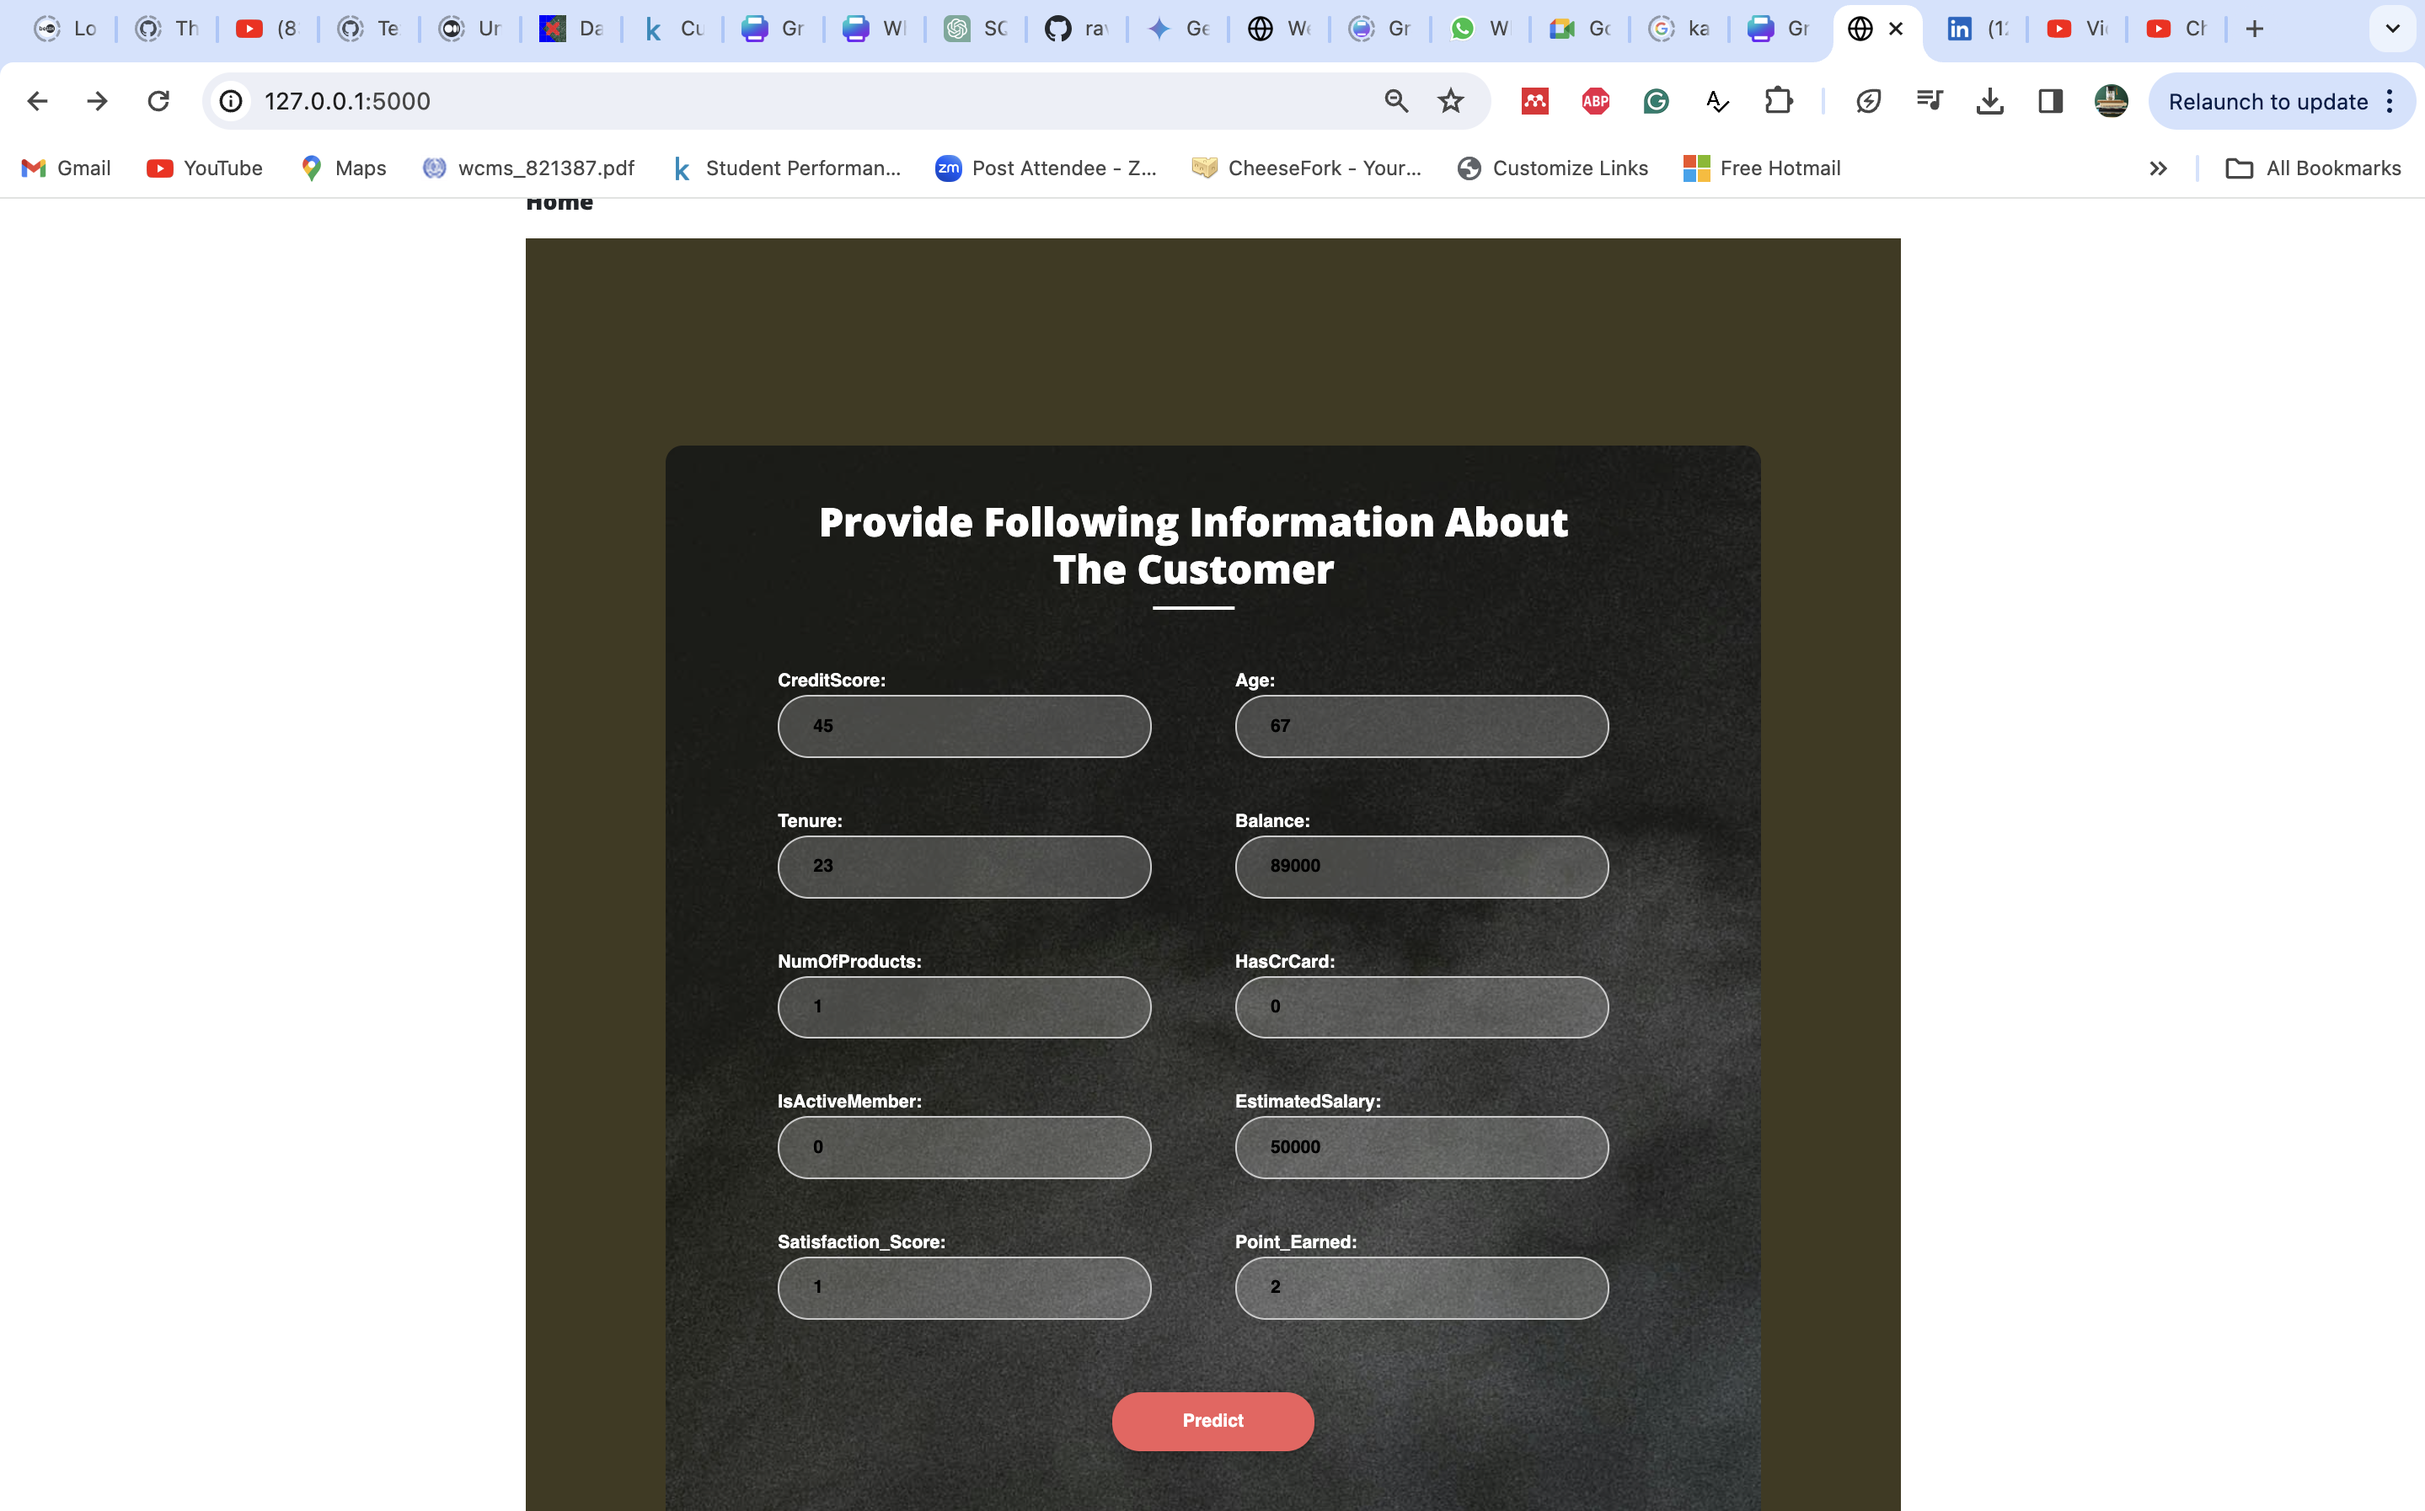
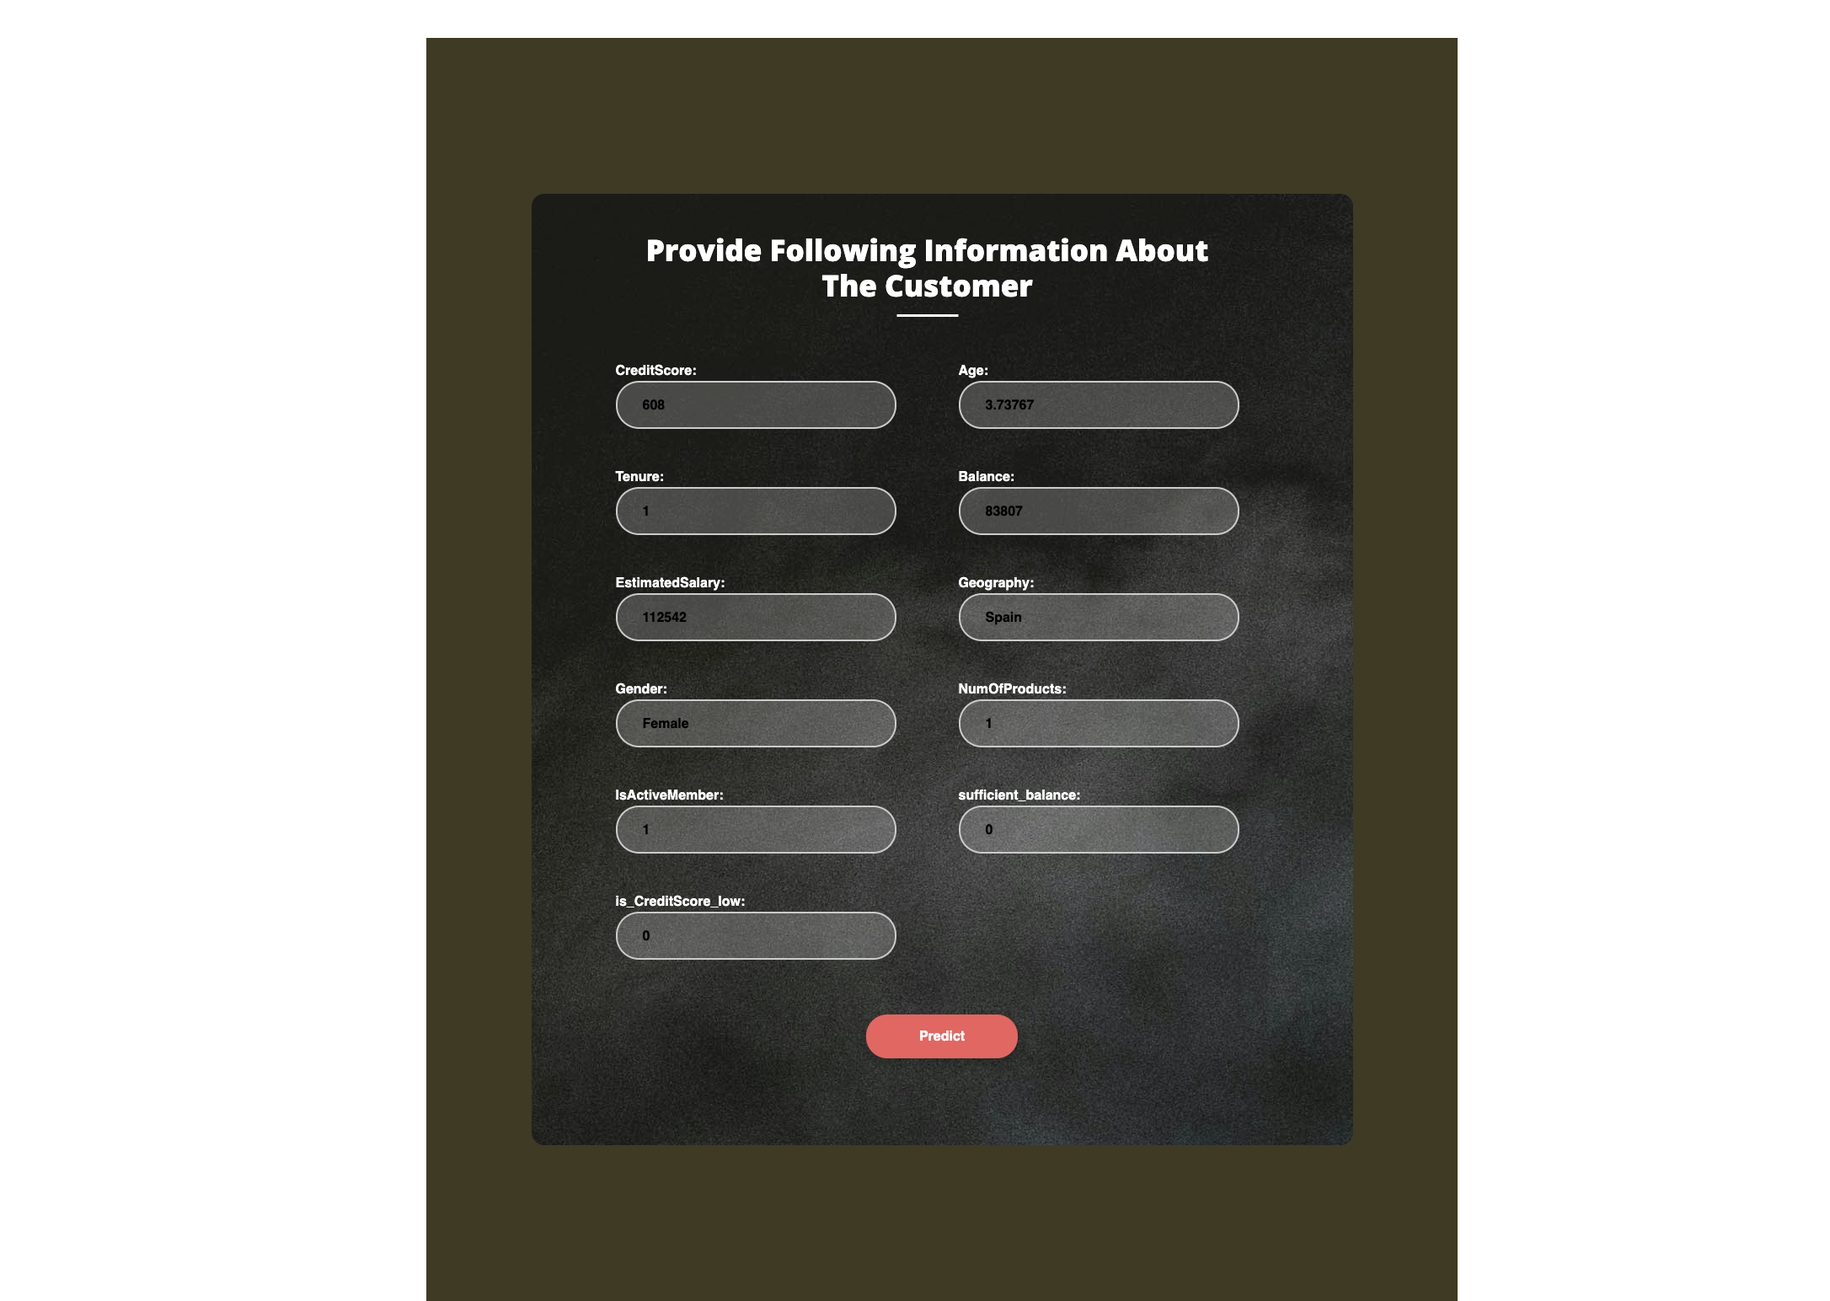
updated

diff --git a/README.md b/README.md
@@ -28,8 +28,7 @@ Ultimately preventing customer churn and improving the bank's customer retention
 - Identifying high-value customers who are at risk of churn and prioritizing retention efforts accordingly.
 
 
-# Screenshots of the App
-(These are of the model trained on data without the info of Gender and Geography. Soon will update with new data including information of Gender and Geography.)
+# Screenshots of the Flask Webb App
 
 ![Application Output](home.png)
 
@@ -72,6 +71,7 @@ Interactive plots and graphs are used to drive the important patterns and conlcu
 
 ## Steps in Feature and Model Selection
 Code file :"/Users/ravina/Desktop/CustomerChurnPrediction/research/Rough_model_Building.ipynb"
+
 1. **Feature Engineering**: Extracting relevant features from the collected data, such as customer age, transaction activity, average balance, No of products, activity and complain. Two features "sufficient_balance" and "is_CreditScore_low" are engineered from the avalible data. which helped in outcome prediction.
 
 2. **Data oversampling**: The target column "Exited" is highly imbalanced. Data oversampling technique 'SMOTE' is used to make the dataset balanced.
@@ -79,6 +79,7 @@ Code file :"/Users/ravina/Desktop/CustomerChurnPrediction/research/Rough_model_B
 3. **Model Training**: Use several machine learning classification algorithms such as random Logistic Regression, Decision Tree, Ada Boost,Xgboost  and forest classifier to predict the likelihood of churn based on the extracted features.
 
 4. **Feature Selection**: Random forest Classifier is used to find the important features in precting the most important features in predicting the output.
+
 5. **Evaluation**: Assessed the performance of these models using metrics like accuracy, precision, recall, and area under the ROC curve (AUC). RandomForestClassifier and xgboostClassifier performed the best. 
 
 6. **Hyper Parameter Tuning**: Hyper Parameter tuning was performed using RandomizedSerchCv for Xgboost and GridSearchCv for Randomforest classifier. With Tuned hyperparameters Randomforest  captures more True positive rate over Xgboost. 
@@ -89,8 +90,12 @@ With RandomforestClassifier we attained an accuracy of 82.5% on the test data, w
 -  Our precision score indicates that only 55% of positively predicted outcomes are accurate. This level of precision may result in misallocation of resources and benefits to customers who are mistakenly predicted to potentially churn, highlighting the need for improvement in our predictive model. 
 - And ROC AUC score of 78% suggests that the model has good discriminatory power in predicting customer churn.
 - F1 score of approximately 0.62  suggests that the model achieves a reasonably good trade-off between correctly identifying positive instances (precision) and capturing all positive instances (recall).
+ 8. **Model Version Control**: Utalized MLflow for model version control and convinient model optimization in end to end pipeline.
 
--**Model Deployement** Created Flask Web App for easy user experince then deployed it on cloud using Aws EC2 instance.
+ 9. **Web APP**: Created Flask Web App for easy user experince.
+
+ 10. **Model Deployement**: Utalized CI/CD pipelines, Docker containers and AWS EC2 instance for seamless model integration and deployement.
+
 
 # Detailed End to End Implementation of the Project.
 
